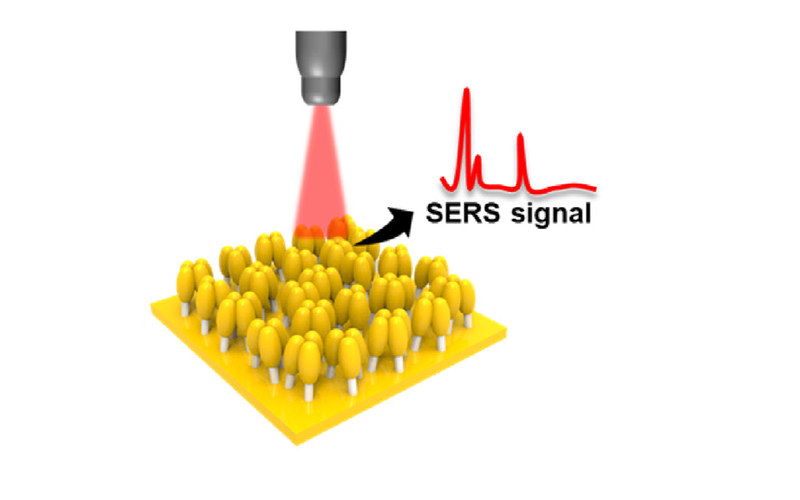
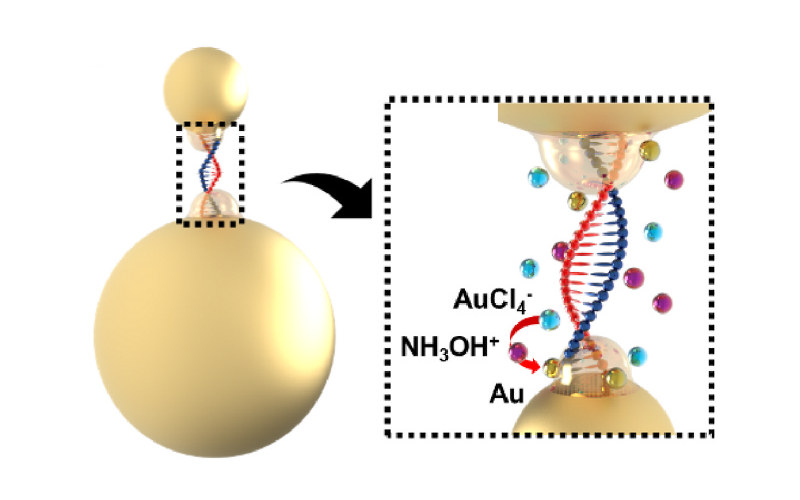
content: restructure research areas, drop Sim-only corresponding figure
- Research: lab overview; WET (Nanobiomaterials & Biosensing: synthesis,
  SERS substrate, SERS biosensing, multi-platform biosensors) and DRY
  (AI for Biomaterials & Medicine: AI-driven materials design, AI clinical
  analysis, Raman cross-modal learning, Virtual Omics as future direction)
- Remove ACA 2022 figure (SJ Sim sole corresponding); Home card thumbnail
  now DNA-directed nanobridge
- Home cards renamed to match

diff --git a/research.html b/research.html
@@ -15,9 +15,11 @@
       <div class="container">
         <h1 class="page-title reveal">Research</h1>
 
+        <p class="desc intro reveal"><span class="lang-ko">NEST Lab은 플라즈모닉 나노소재 기반 초고감도 바이오센서를 개발하고(WET), 여기서 얻은 분자 데이터를 임상 데이터와 AI로 통합 분석하여(DRY) 질병의 진단·예측과 새로운 바이오마커 발굴을 목표로 합니다.<br>- 소재 설계부터 센싱, 데이터 분석, 임상 해석까지 하나의 연구실 안에서 순환하는 Wet-Dry 융합 연구</span><span class="lang-en">NEST Lab develops ultrasensitive biosensors based on plasmonic nanomaterials (WET) and integrates the resulting molecular data with clinical data through AI (DRY), aiming at disease diagnosis and prediction and the discovery of new biomarkers.<br>- Wet-Dry convergence research that cycles from materials design and sensing to data analysis and clinical interpretation within one lab</span></p>
+
         <div class="part reveal" id="plasmonic">
           <h2>WET LAB</h2>
-          <p class="desc"><span class="lang-ko"><b>Plasmonic Biosensing</b> — 플라즈모닉 나노소재와 SERS(표면증강 라만 산란) 기반 초고감도 바이오센서 개발<br>- 극미량 질병 바이오마커의 고감도 검출 가능</span><span class="lang-en"><b>Plasmonic Biosensing</b> — Ultrasensitive biosensors based on plasmonic nanomaterials and surface-enhanced Raman scattering (SERS)<br>- Highly sensitive detection of trace disease biomarkers</span></p>
+          <p class="desc"><span class="lang-ko"><b>Nanobiomaterials &amp; Biosensing</b> — 나노바이오소재 설계와 이를 활용한 초고감도 바이오센서 개발<br>- 극미량 질병 바이오마커의 고감도 검출 가능</span><span class="lang-en"><b>Nanobiomaterials &amp; Biosensing</b> — Design of nanobiomaterials and ultrasensitive biosensors built on them<br>- Highly sensitive detection of trace disease biomarkers</span></p>
         </div>
 
         <div class="topic reveal">
@@ -38,16 +40,23 @@
         </div>
 
         <div class="topic reveal">
-          <h3>SERS Measurement</h3>
-          <p class="desc"><span class="lang-ko">다양한 임상 시료 속 바이오마커의 SERS 측정 및 신호 정량<br>- 높은 민감도와 재현성의 정량 분석 가능</span><span class="lang-en">SERS measurement and signal quantification of biomarkers in diverse clinical samples<br>- Quantitative analysis with high sensitivity and reproducibility</span></p>
-          <div class="thumbs">
-            <img src="assets/img/research/measurement-sers-immunoassay.jpg" alt="SERS immunoassay on a gold nanopillar substrate" width="1541" height="1078" style="--ar:1.43" loading="lazy">
-          </div>
+          <h3>SERS Biosensing</h3>
+          <p class="desc"><span class="lang-ko">엑소좀, 활액, 혈액 등 다양한 임상 시료 속 바이오마커의 SERS 측정 및 신호 정량<br>- 높은 민감도와 재현성의 정량 분석 가능</span><span class="lang-en">SERS measurement and signal quantification of biomarkers in diverse clinical samples such as exosomes, synovial fluid and blood<br>- Quantitative analysis with high sensitivity and reproducibility</span></p>
+        </div>
+
+        <div class="topic reveal">
+          <h3>Multi-platform Biosensors</h3>
+          <p class="desc"><span class="lang-ko">개발한 나노소재·핵산 나노구조를 전기화학 등 다양한 센서 플랫폼으로 확장 응용<br>- 엑소좀 miRNA 다중 검출 등 목적에 맞는 센서 설계, 현장 진단(POC)으로의 확장 가능</span><span class="lang-en">Extending our nanomaterials and nucleic-acid nanostructures to diverse sensor platforms, including electrochemical sensors<br>- Purpose-built sensors such as multiplexed exosomal miRNA detection, extendable to point-of-care (POC) diagnostics</span></p>
         </div>
 
         <div class="part reveal">
           <h2>DRY LAB</h2>
-          <p class="desc"><span class="lang-ko">SERS 데이터를 비롯한 분자 데이터와 임상 데이터의 AI 분석<br>- 질병 진단 및 예측에 활용</span><span class="lang-en">AI analysis of molecular data, including SERS data, and clinical data<br>- Applied to disease diagnosis and prediction</span></p>
+          <p class="desc"><span class="lang-ko"><b>AI for Biomaterials &amp; Medicine</b> — 소재 데이터, 분자 데이터, 임상 데이터의 AI 분석<br>- 소재 개발 가속화와 질병 진단·예측에 활용</span><span class="lang-en"><b>AI for Biomaterials &amp; Medicine</b> — AI analysis of materials, molecular and clinical data<br>- Applied to accelerating materials development and to disease diagnosis and prediction</span></p>
+        </div>
+
+        <div class="topic reveal">
+          <h3>AI-driven Materials Design</h3>
+          <p class="desc"><span class="lang-ko">합성·공정 조건과 나노구조, 신호 세기 사이의 관계를 머신러닝으로 학습하고 시뮬레이션 데이터와 결합<br>- 실험 횟수를 줄이면서 최적의 나노소재·SERS 기판 구조 예측 가능</span><span class="lang-en">Machine learning of the relationships among synthesis and process conditions, nanostructure and signal intensity, combined with simulation data<br>- Predicting optimal nanomaterial and SERS substrate structures with fewer experiments</span></p>
         </div>
 
         <div class="topic reveal" id="ai-clinical">
@@ -60,11 +69,16 @@
         </div>
 
         <div class="topic reveal" id="cross-modal">
-          <h3>Raman Cross-modal</h3>
-          <p class="desc"><span class="lang-ko">분자 데이터와 임상 데이터 등 서로 다른 모달리티의 통합 학습<br>- 두 데이터 사이의 관계 규명 및 새로운 진단 지표 개발 가능</span><span class="lang-en">Joint learning of different modalities such as molecular and clinical data<br>- Uncovering how they relate and building new diagnostic indicators</span></p>
+          <h3>Raman Cross-modal Learning</h3>
+          <p class="desc"><span class="lang-ko">라만 분자 데이터와 X-ray 등 임상 데이터처럼 서로 다른 모달리티의 통합 학습<br>- 두 데이터 사이의 관계 규명 및 새로운 진단 지표 개발 가능</span><span class="lang-en">Joint learning of different modalities, such as Raman molecular data and clinical data including X-ray images<br>- Uncovering how they relate and building new diagnostic indicators</span></p>
           <div class="thumbs">
             <img src="assets/img/research/crossmodal-raman-clinical.jpg" alt="Cross-modal learning between exosomal Raman spectra and clinical images" width="1600" height="454" style="--ar:3.52" loading="lazy">
           </div>
+        </div>
+
+        <div class="topic reveal">
+          <h3>Virtual Omics <span class="tag">Future Direction</span></h3>
+          <p class="desc"><span class="lang-ko">라만 스펙트럼으로부터 단백체·전사체 등 오믹스 프로파일을 추론하고, 실제 멀티오믹스 데이터와 통합 분석<br>- 고비용 오믹스 분석 없이 빠르고 저렴하게 분자 수준의 생물학적 정보 예측 가능</span><span class="lang-en">Inferring omics profiles such as the proteome and transcriptome from Raman spectra, and integrating them with real multi-omics data<br>- Fast, low-cost prediction of molecular-level biological information without expensive omics assays</span></p>
         </div>
       </div>
     </section>

diff --git a/index.html b/index.html
@@ -28,9 +28,9 @@
       <div class="container reveal">
         <div class="label">RESEARCH AREAS</div>
         <div class="grid-3" style="margin-top:14px">
-          <a class="card" href="research.html#plasmonic"><img src="assets/img/research/card-plasmonic.jpg" alt="" width="800" height="500" loading="lazy"><div class="body"><h3>Plasmonic Biosensing</h3><p><span class="lang-ko">플라즈모닉 나노소재와 SERS 기반 극미량 질병 바이오마커 검출용 초고감도 바이오센서 개발</span><span class="lang-en">Ultrasensitive biosensors that detect trace disease biomarkers using plasmonic nanomaterials and SERS.</span></p><span class="more"><span class="lang-ko">자세히 보기</span><span class="lang-en">Learn more</span> →</span></div></a>
+          <a class="card" href="research.html#plasmonic"><img src="assets/img/research/card-plasmonic.jpg" alt="" width="800" height="500" loading="lazy"><div class="body"><h3>Nanobiomaterials &amp; Biosensing</h3><p><span class="lang-ko">나노바이오소재 설계와 이를 활용한 극미량 질병 바이오마커 검출용 초고감도 바이오센서 개발</span><span class="lang-en">Design of nanobiomaterials and ultrasensitive biosensors built on them for detecting trace disease biomarkers</span></p><span class="more"><span class="lang-ko">자세히 보기</span><span class="lang-en">Learn more</span> →</span></div></a>
           <a class="card" href="research.html#ai-clinical"><img src="assets/img/research/card-ai.jpg" alt="" width="800" height="500" loading="lazy"><div class="body"><h3>AI Clinical Analysis</h3><p><span class="lang-ko">분자 데이터와 임상 데이터의 AI 분석을 통한 질병 진단 및 진행 예측</span><span class="lang-en">AI analysis of molecular and clinical data to diagnose disease and predict its progression.</span></p><span class="more"><span class="lang-ko">자세히 보기</span><span class="lang-en">Learn more</span> →</span></div></a>
-          <a class="card" href="research.html#cross-modal"><img src="assets/img/research/card-crossmodal.jpg" alt="" width="800" height="500" loading="lazy"><div class="body"><h3>Raman Cross-modal</h3><p><span class="lang-ko">분자 데이터와 임상 데이터의 통합 학습을 통한 관계 규명 및 새로운 진단 지표 개발</span><span class="lang-en">Joint learning of molecular and clinical data to uncover how they relate and to build new diagnostic indicators.</span></p><span class="more"><span class="lang-ko">자세히 보기</span><span class="lang-en">Learn more</span> →</span></div></a>
+          <a class="card" href="research.html#cross-modal"><img src="assets/img/research/card-crossmodal.jpg" alt="" width="800" height="500" loading="lazy"><div class="body"><h3>Raman Cross-modal Learning</h3><p><span class="lang-ko">분자 데이터와 임상 데이터의 통합 학습을 통한 관계 규명 및 새로운 진단 지표 개발</span><span class="lang-en">Joint learning of molecular and clinical data to uncover how they relate and to build new diagnostic indicators.</span></p><span class="more"><span class="lang-ko">자세히 보기</span><span class="lang-en">Learn more</span> →</span></div></a>
         </div>
       </div>
     </section>

diff --git a/assets/css/style.css b/assets/css/style.css
@@ -80,6 +80,9 @@ h1,h2,h3{color:var(--navy);line-height:1.25}
 .part .desc,.topic .desc{color:var(--ink);font-size:14px;margin:6px 0 16px;max-width:760px}
 .topic{padding:28px 0;border-top:1px solid var(--line)}
 .topic h3{font-size:20px}
+.topic .tag{display:inline-block;vertical-align:middle;margin-left:8px;padding:2px 10px;border:1px solid var(--blue);
+  border-radius:999px;color:var(--blue);font-size:11px;font-weight:600;letter-spacing:.5px}
+.intro{font-size:15px;margin:0 0 8px}
 /* 그림 줄: img마다 style="--ar:가로/세로" → 한 줄의 그림 높이가 같아지고, 좁은 화면에선 줄바꿈 */
 .thumbs{display:flex;flex-wrap:wrap;gap:16px;align-items:flex-start}
 .thumbs img{flex:var(--ar) 1 calc(var(--ar) * 200px);min-width:0;height:auto;max-height:420px;
